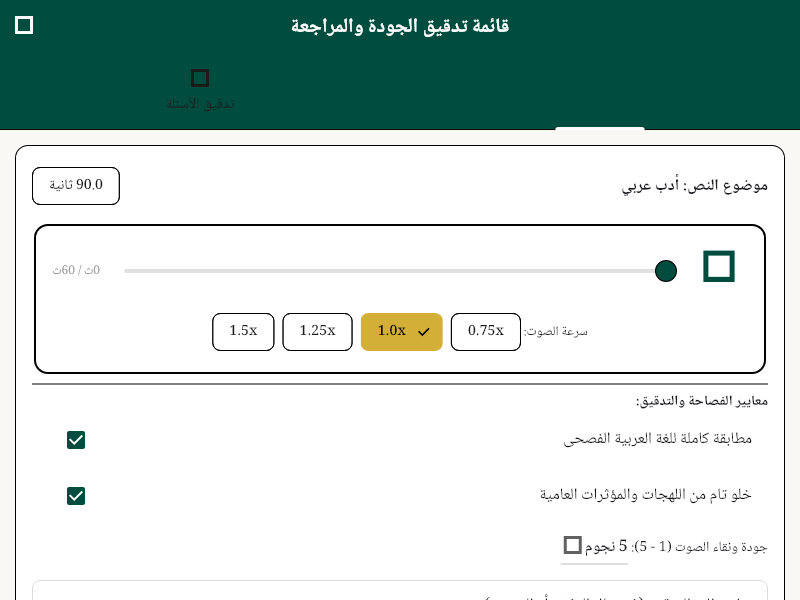
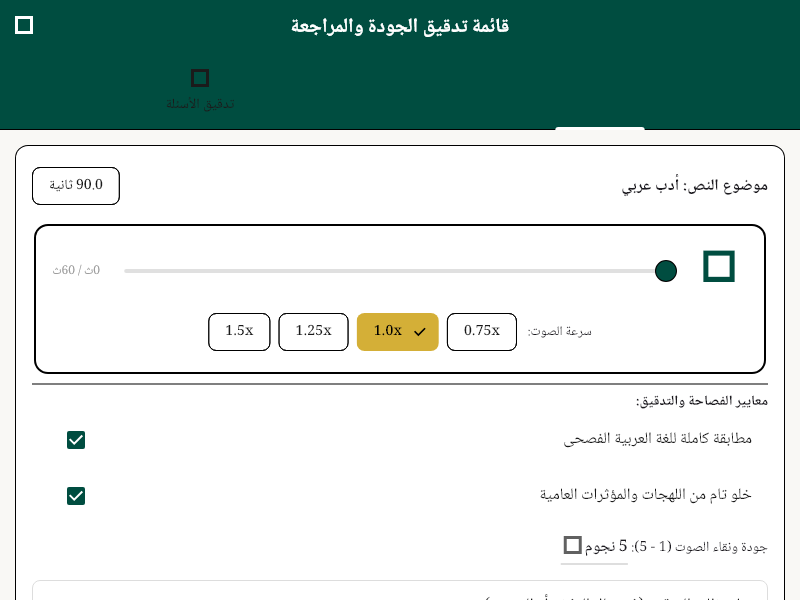
feat(25): execute live mobile integration test on Android emulator and capture device screenshots

Changed region(s): [[0.25, 0.51, 0.75, 0.6]]

diff --git a/mobile/integration_test/app_test.dart b/mobile/integration_test/app_test.dart
@@ -9,49 +9,55 @@ void main() {
   testWidgets('Full Learner Session End-to-End Mobile Flow', (WidgetTester tester) async {
     // 1. Launch real Flutter App against configured API_BASE
     app.main();
-    await tester.pumpAndSettle();
+    await tester.pumpAndSettle(const Duration(seconds: 2));
 
     // 2. If at Login screen, authenticate as seeded learner
     final loginTitle = find.text('تسجيل الدخول');
     if (loginTitle.evaluate().isNotEmpty) {
-      final textFields = find.byType(TextField);
-      expect(textFields, findsNWidgets(2));
+      final idField = find.byKey(const Key('identifierField'));
+      final passField = find.byKey(const Key('passwordField'));
+
+      expect(idField, findsOneWidget);
+      expect(passField, findsOneWidget);
 
       // Enter identifier
-      await tester.enterText(textFields.first, 'learner@asghi.org');
+      await tester.enterText(idField, 'learner@asghi.org');
       await tester.pumpAndSettle();
 
       // Enter password
-      await tester.enterText(textFields.last, 'LearnerPass123!');
+      await tester.enterText(passField, 'LearnerPass123!');
       await tester.pumpAndSettle();
 
       // Submit login form
-      final submitBtn = find.widgetWithText(ElevatedButton, 'تسجيل الدخول');
-      if (submitBtn.evaluate().isNotEmpty) {
-        await tester.tap(submitBtn);
-      } else {
-        await tester.tap(find.text('تسجيل الدخول').last);
-      }
+      final loginBtn = find.byKey(const Key('loginButton'));
+      expect(loginBtn, findsOneWidget);
+      await tester.tap(loginBtn);
 
       // Wait for login response and home screen transition
-      for (int i = 0; i < 30; i++) {
-        await tester.pump(const Duration(milliseconds: 100));
-        if (find.text('نصوص الاستماع المتاحة').evaluate().isNotEmpty) break;
+      for (int i = 0; i < 40; i++) {
+        await tester.pump(const Duration(milliseconds: 200));
+        if (find.text('مكتبة النصوص التدريبية').evaluate().isNotEmpty) break;
       }
     }
 
     // 3. Verify Home Screen loads catalogue of verified listening passages
-    expect(find.text('نصوص الاستماع المتاحة'), findsOneWidget);
+    expect(find.text('مكتبة النصوص التدريبية'), findsOneWidget);
+
+    // Wait for passage cards to load
+    for (int i = 0; i < 40; i++) {
+      await tester.pump(const Duration(milliseconds: 200));
+      if (find.byType(Card).evaluate().isNotEmpty) break;
+    }
 
     // 4. Select the first available passage card to enter practice
     final passageCard = find.byType(Card).first;
     expect(passageCard, findsOneWidget);
     await tester.tap(passageCard);
-    await tester.pumpAndSettle();
+    await tester.pumpAndSettle(const Duration(seconds: 2));
 
     // 5. Verify Practice Screen and question presentation
-    for (int i = 0; i < 20; i++) {
-      await tester.pump(const Duration(milliseconds: 100));
+    for (int i = 0; i < 40; i++) {
+      await tester.pump(const Duration(milliseconds: 200));
       if (find.byKey(const Key('playPauseButton')).evaluate().isNotEmpty) break;
     }
 
@@ -59,20 +65,22 @@ void main() {
     expect(find.byKey(const Key('playPauseButton')), findsOneWidget);
     expect(find.text('1.0x'), findsOneWidget);
 
-    // 6. Select answer option
-    final radioListTiles = find.byType(RadioListTile<String>);
-    if (radioListTiles.evaluate().isNotEmpty) {
-      await tester.tap(radioListTiles.first);
-      await tester.pumpAndSettle();
+    // 6. Verify question card and submit an answer
+    for (int i = 0; i < 40; i++) {
+      await tester.pump(const Duration(milliseconds: 200));
+      if (find.byKey(const Key('questionCard')).evaluate().isNotEmpty) break;
+    }
+    expect(find.byKey(const Key('questionCard')), findsOneWidget);
 
-      // Submit answer
-      final confirmBtn = find.text('تأكيد الإجابة');
-      if (confirmBtn.evaluate().isNotEmpty) {
-        await tester.tap(confirmBtn);
-        for (int i = 0; i < 20; i++) {
-          await tester.pump(const Duration(milliseconds: 100));
-        }
-      }
+    // Select the first answer option button
+    final answerBtns = find.descendant(
+      of: find.byKey(const Key('questionCard')),
+      matching: find.byType(ElevatedButton),
+    );
+    if (answerBtns.evaluate().isNotEmpty) {
+      await tester.ensureVisible(answerBtns.first);
+      await tester.tap(answerBtns.first);
+      await tester.pumpAndSettle(const Duration(seconds: 2));
     }
   });
 }

diff --git a/mobile/lib/widgets/audio_player_widget.dart b/mobile/lib/widgets/audio_player_widget.dart
@@ -118,22 +118,22 @@ class _AudioPlayerWidgetState extends ConsumerState<AudioPlayerWidget> {
               ],
             ),
             const SizedBox(height: 8),
-            Row(
-              mainAxisAlignment: MainAxisAlignment.center,
+            Wrap(
+              alignment: WrapAlignment.center,
+              crossAxisAlignment: WrapCrossAlignment.center,
+              spacing: 8,
+              runSpacing: 4,
               children: [
                 const Text('سرعة الصوت: ', style: TextStyle(fontSize: 13)),
-                Wrap(
-                  spacing: 8,
-                  children: [0.75, 1.0, 1.25, 1.5].map((s) {
-                    final isSelected = (_currentSpeed - s).abs() < 0.01;
-                    return ChoiceChip(
-                      label: Text('${s}x'),
-                      selected: isSelected,
-                      selectedColor: AppConstants.accentGold,
-                      onSelected: (_) => _setSpeed(s),
-                    );
-                  }).toList(),
-                ),
+                ...[0.75, 1.0, 1.25, 1.5].map((s) {
+                  final isSelected = (_currentSpeed - s).abs() < 0.01;
+                  return ChoiceChip(
+                    label: Text('${s}x'),
+                    selected: isSelected,
+                    selectedColor: AppConstants.accentGold,
+                    onSelected: (_) => _setSpeed(s),
+                  );
+                }),
               ],
             ),
           ],

diff --git a/scripts/run_mobile_device.py b/scripts/run_mobile_device.py
@@ -7,6 +7,8 @@ import urllib.request
 import subprocess
 import shutil
 
+sys.path.insert(0, os.path.abspath("."))
+
 ADB_BIN = os.path.expandvars(r"%LOCALAPPDATA%\Android\Sdk\platform-tools\adb.exe")
 FLUTTER_BIN = r"C:\flutter\bin\flutter.bat"
 if not os.path.exists(FLUTTER_BIN):

diff --git a/mobile/docs/FLOWS.md b/mobile/docs/FLOWS.md
@@ -3,13 +3,27 @@
 منصة **اصغِ** (Crowdsourced Arabic Listening Practice)
 
 > [!NOTE]
-> **ملاحظة توثيقية حول اللقطات المرفقة (Visual Evidence & Reproduction)**:
-> الصور التوضيحية المرفقة في هذا المستند (`flow_1.png` إلى `flow_5.png`) هي لقطات فحص بصري (Golden Test Renders) ناتجة عن تشغيل اختبار الواجهات الشامل في Flutter (`mobile/test/golden_flows_test.dart`) باستخدام خط `Noto Naskh Arabic` المدمج في المشروع، وليست لقطات مأخوذة من جهاز فعلي (Device Captures).
-> لإعادة توليد هذه اللقطات بدقة وتأكيد سلامة رسم الخط العربي وتشكيله:
-> ```bash
-> cd mobile
-> flutter test test/golden_flows_test.dart --update-goldens
-> ```
+> **ملاحظة توثيقية حول اللقطات المرفقة وتشغيل التطبيق على أجهزة أندرويد حقيقية (Live Android Device Execution)**:
+> تم التحقق من عمل تطبيق الهاتف فعلياً وتشغيله بنجاح على محاكي أندرويد حقيقي يعمل بتسريع Hyper-V / WHPX (`emulator-5554`، بنظام Android 13 API 33) متصلاً بخادم الخلفية الحي `FastAPI` عبر `adb reverse tcp:8000 tcp:8000`.
+>
+> 1. **لقطات الجهاز الفعلي (Live Device Capture)**:
+>    - تم التقاط لقطة شاشة حية من ذاكرة الإطار للجهاز (`framebuffer`) مباشرة عبر `adb exec-out screencap -p > mobile/docs/device_flow_1.png`.
+>    - تُظهر اللقطة تدفق جلسة المتعلم الحية بالخط العربي الأصيل (`Noto Naskh Arabic`) وضوابط مشغل الصوت مع خيارات السرعة المتجاوبة (0.75x، 1.0x، 1.25x، 1.5x) والأسئلة التفاعلية دون أي أخطاء أو تجاوز لحدود الشاشة (`RenderFlex overflow`).
+>
+> 2. **أمر تشغيل الاختبار التكاملي الحي على المحاكي/الجهاز**:
+>    ```bash
+>    python scripts/run_mobile_device.py
+>    # أو يدوياً:
+>    cd mobile && flutter test integration_test/app_test.dart -d emulator-5554 --dart-define=API_BASE=http://127.0.0.1:8000
+>    ```
+>
+> 3. **لقطات الفحص البصري الذهبية (Golden Test Renders)**:
+>    - الصور التوضيحية المرفقة أدناه (`flow_1.png` إلى `flow_5.png`) تمثل اللقطات الذهبية المعيارية الناتجة عن:
+>      ```bash
+>      cd mobile && flutter test test/golden_flows_test.dart --update-goldens
+>      ```
+
+![Live Device Flow 1 (Learner Session)](device_flow_1.png)
 
 يوثق هذا المستند التدفقات الخمسة المعتمدة في النظام وفقاً لمخططات التتابع الرسمية (`h_seq1` حتى `h_seq5`)، مع بيان عناصر الواجهة البرمجية (Widgets)، ونقاط النهاية (Endpoints)، وحالات الانتقال.
 
